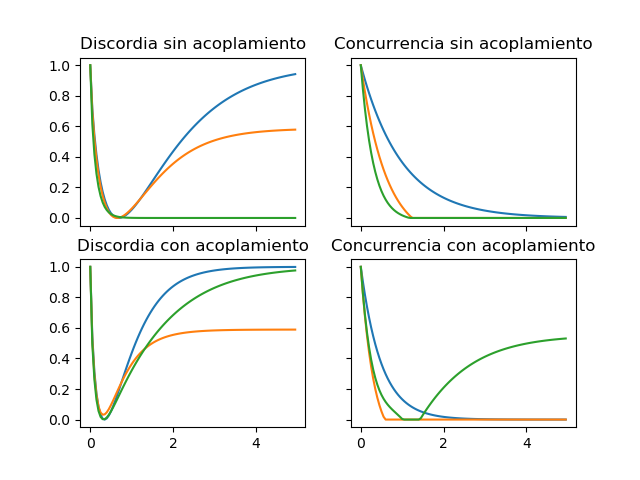
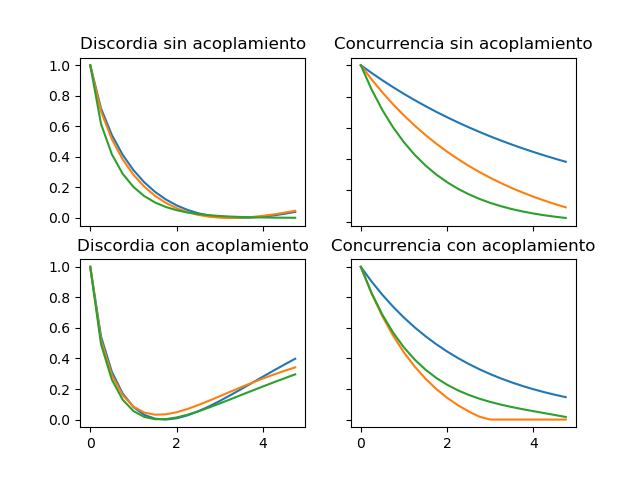
Cambio generado con script

diff --git a/master.py b/master.py
@@ -32,9 +32,9 @@ def entropy_cond(a,b,t1,t2):
 #Definir funcion que calcula ecuaciones maestras y evaluar si funciona fuera
 def me3(IN,RES):
     sol=mesolve(tensor(identity(2),identity(2)), IN, times, RES)
-    out=[[0 for i in range(100)],[0 for i in range(100)]]
-    conc=[0 for i in range(100)]
-    disc=[0 for i in range(100)]    
+    out=[[0 for i in range(20)],[0 for i in range(20)]]
+    conc=[0 for i in range(20)]
+    disc=[0 for i in range(20)]    
     def entropy_opt(a):
         ent_comp=[0 for i in range(4)]
         if a.matrix_element(tensor(basis(2,0)),tensor(basis(2,0)))+a.matrix_element(tensor(basis(2,1)),tensor(basis(2,1)))==0:
@@ -53,7 +53,7 @@ def me3(IN,RES):
         else:
             e= min(ent_comp)
         return e
-    for i in range (0,100):
+    for i in range (0,20):
         mat=Qobj(sol.states[i])
         conc[i]=concurrence(mat),4
         disc[i]=np.abs(-entropy_vn(mat)+entropy_vn(mat.ptrace(0))+entropy_opt(mat))
@@ -62,10 +62,10 @@ def me3(IN,RES):
 
 def me2(IN,RES):
     sol=mesolve(tensor(identity(2),identity(2)), IN, times, RES)
-    out=[[0 for i in range(100)],[0 for i in range(100)]]
-    conc=[0 for i in range(100)]
-    disc=[0 for i in range(100)]
-    for i in range (0,100):
+    out=[[0 for i in range(20)],[0 for i in range(20)]]
+    conc=[0 for i in range(20)]
+    disc=[0 for i in range(20)]
+    for i in range (0,20):
         mat=Qobj(sol.states[i])
         c1=mat.eigenenergies()[2]+mat.eigenenergies()[3]-mat.eigenenergies()[0]-mat.eigenenergies()[1]
         c2=mat.eigenenergies()[1]+mat.eigenenergies()[3]-mat.eigenenergies()[0]-mat.eigenenergies()[2]
@@ -79,7 +79,7 @@ def me2(IN,RES):
     out=[conc,disc]
     return out    
 
-tiempo = [(1/20)*i for i in range(100)]#Intervalo de tiempo para los gráficos
+tiempo = [(1/4)*i for i in range(20)]#Intervalo de tiempo para los gráficos
 
  
 #Graficar
